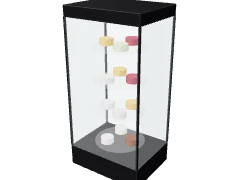
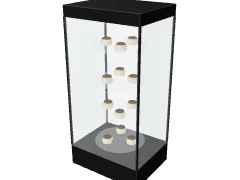
Café 3D: mini Basque cheesecakes in all fridges and display cases (default, switchable)

diff --git a/cafe.html b/cafe.html
@@ -484,7 +484,14 @@ const LIGHT = matC('#fff6dc', .3, 0, {emissive:'#fff0c8', emissiveIntensity:1});
 const BULB = matC('#fff4d6', .3, 0, {emissive:'#ffdca0', emissiveIntensity:2});
 const CAKES = () => ['#6b3b24', '#f2d6dc', '#f4ecd8', '#d8a24a', '#8f2a3a', '#c7d9a3'].map(c => matC(c, .7));
 function lampLight(g, ctx, x, y, z){ if (!ctx?.lights || !ctx.eve || ctx.lights.length >= 8) return; const L = new THREE.PointLight('#ffd49a', 2, 6, 2); L.position.set(x, y, z); L.userData.nopick = true; g.add(L); ctx.lights.push(L); }
+// a small Basque cheesecake: creamy sides, burnt top, crumpled baking paper around
+const BQ = {cream:matC('#e6bf7c', .7), top:matC('#2a160c', .8), edge:matC('#8b4a1f', .65), paper:matC('#e8dcc6', .95, 0, {side:THREE.DoubleSide})};
+function basque(g, x, y, z, r = .05){ const h = r * 1.1;
+  cy(g, BQ.cream, x, y, z, r * .96, r, h, 18); cy(g, BQ.edge, x, y + h, z, r * .86, r * .96, r * .12, 18);
+  const t = mesh(g, new THREE.SphereGeometry(r * .88, 16, 6, 0, Math.PI * 2, 0, Math.PI / 2), BQ.top, x, y + h + r * .1, z); t.scale.y = .32;
+  cy(g, BQ.paper, x, y, z, r * 1.16, r * 1.02, h * .72, 8, true); }
 function goods(g, kind, w, z, y, seed = 1){
+  if (kind === 'basque'){ const n = Math.max(1, Math.floor((w - .06) / .115)); spread(n, w - .13).forEach(x => basque(g, x, y, z)); return; }
   const C = CAKES(), dr = kind === 'drinks', n = Math.max(1, Math.floor((w - .1) / (dr ? .085 : .21)));
   spread(n, w - (dr ? .12 : .26)).forEach((x, i) => { const m = C[(i + seed) % C.length];
     if (dr){ cy(g, m, x, y, z, .03, .03, .19, 12); cy(g, DARK, x, y + .19, z, .014, .014, .03, 8); }
@@ -554,7 +561,7 @@ const DEF = {
       const s = new THREE.Group(); s.position.set(-.04, .2, 0); s.rotation.x = -.35; g.add(s); bx(s, F, 0, -.11, 0, .3, .21, .016, .006);
       const scr = mesh(s, new THREE.PlaneGeometry(.28, .19), matC('#2c5e8c', .3, 0, {emissive:'#1b4166', emissiveIntensity:.8}), 0, 0, .0085); scr.castShadow = false;
       bx(g, F, .13, 0, .05, .075, .03, .15, .01); bx(g, matC('#3a8a5c', .4, 0, {emissive:'#1d5c38'}), .13, .03, .07, .05, .002, .05); }},
-  pastry:{cat:'bar', n:'Витрина для десертов', presets:PW([.9, 1.2, 1.5]), w:1.2, d:.7, h:1.35, rs:'w', fins:BODY, fin:'white', tops:TOPS, top:'marble', snap:true,
+  pastry:{cat:'bar', n:'Витрина для десертов', goods:'basque', presets:PW([.9, 1.2, 1.5]), w:1.2, d:.7, h:1.35, rs:'w', fins:BODY, fin:'white', tops:TOPS, top:'marble', snap:true,
     build(g, o){ const {w, d, h} = o, F = finMat(o.fin), T = finMat(o.top), gh = h - .91;
       bx(g, DARK, 0, 0, 0, w - .04, .08, d - .06); bx(g, F, 0, .08, 0, w, .8, d); bx(g, T, 0, .88, 0, w, .03, d);
       bx(g, GLASS, 0, .91, 0, w - .02, gh, d - .04);
@@ -562,8 +569,7 @@ const DEF = {
       bx(g, STEEL, 0, h - .02, 0, w, .02, d - .02); bx(g, GLASS, 0, .91 + gh / 2, -.02, w - .06, .01, d - .14);
       bx(g, matC('#fff6dc', .3, 0, {emissive:'#fff0c8', emissiveIntensity:1}), 0, h - .03, 0, w - .1, .008, .04);
       const cakes = ['#6b3b24', '#f2d6dc', '#f4ecd8', '#d8a24a', '#8f2a3a'].map(c => matC(c, .7));
-      [.91, .91 + gh / 2 + .01].forEach((y, l) => spread(Math.max(1, Math.floor((w - .1) / .22)), w - .3).forEach((x, i) => {
-        cy(g, cakes[(i + l * 2) % cakes.length], x, y, .02, .085, .085, .075, 24); cy(g, matC('#ffffff', .4), x, y + .075, .02, .085, .085, .01, 24); })); }},
+      [.91, .91 + gh / 2 + .01].forEach((y, l) => goods(g, o.goods || 'basque', w - .04, .02, y, l * 2)); }},
   espresso:{cat:'coffee', n:'Эспрессо-машина', w:.72, d:.58, h:.5, place:'on', fins:MACH, fin:'steel', groups:2,
     size: o => ({w:[.5, .72, .95][(o.groups || 2) - 1]}),
     build(g, o){ const {w, d} = o, F = finMat(o.fin), n = o.groups || 2, K = DARK;
@@ -646,21 +652,22 @@ const DEF = {
     build(g, o){ const F = finMat(o.fin); bx(g, F, 0, 0, 0, .18, .13, .2, .02); cy(g, GLASS, 0, .13, 0, .08, .06, .27); cy(g, DARK, 0, .4, 0, .082, .082, .03); }},
   milk:{cat:'coffee', n:'Холодильник для молока', w:.3, d:.48, h:.45, place:'on', fins:['steel', 'black', 'white'], fin:'steel',
     build(g, o){ bx(g, finMat(o.fin), 0, 0, 0, .3, .45, .48, .01); bx(g, GLASS_T, 0, .05, .241, .24, .34, .005); }},
-  fridge:{cat:'cold', n:'Холодильный шкаф со стеклом', presets:PW([.6, .7]), w:.6, d:.62, h:2.0, rs:'wh', fins:['white', 'black', 'steel'], fin:'black', snap:true,
+  fridge:{cat:'cold', n:'Холодильный шкаф со стеклом', goods:'basque', presets:PW([.6, .7]), w:.6, d:.62, h:2.0, rs:'wh', fins:['white', 'black', 'steel'], fin:'black', snap:true,
     build(g, o){ const {w, d, h} = o, F = finMat(o.fin), t = .04, nd = w > .9 ? 2 : 1;
       bx(g, F, -w / 2 + t / 2, 0, 0, t, h, d); bx(g, F, w / 2 - t / 2, 0, 0, t, h, d); bx(g, F, 0, h - .16, 0, w, .16, d); bx(g, DARK, 0, 0, 0, w, .1, d); bx(g, F, 0, 0, -d / 2 + t / 2, w, h, t);
       bx(g, matC('#f3f3f1', .6), 0, .1, -d / 2 + t + .006, w - 2 * t, h - .26, .01);
       bx(g, matC('#ffffff', .4, 0, {emissive:'#ffffff', emissiveIntensity:.7}), 0, h - .13, d / 2 + .002, w - .08, .09, .004);
       const bottles = ['#f4f1ea', '#e9c46a', '#e76f51', '#2a9d8f', '#ffffff'].map(c => matC(c, .35));
       for (let i = 0; i < 4; i++){ const y = .14 + i * (h - .36) / 4; bx(g, matC('#e2e8ea', .2, .1), 0, y, 0, w - 2 * t - .01, .01, d - 2 * t - .02);
-        spread(Math.max(1, Math.floor((w - 2 * t) / .085)), w - 2 * t - .1).forEach((x, j) => { cy(g, bottles[(i + j) % bottles.length], x, y + .01, d * .12, .032, .032, .2, 12); cy(g, DARK, x, y + .21, d * .12, .015, .015, .03, 8); }); }
+        if ((o.goods || 'basque') === 'drinks') spread(Math.max(1, Math.floor((w - 2 * t) / .085)), w - 2 * t - .1).forEach((x, j) => { cy(g, bottles[(i + j) % bottles.length], x, y + .01, d * .12, .032, .032, .2, 12); cy(g, DARK, x, y + .21, d * .12, .015, .015, .03, 8); });
+        else for (const zz of [d * .14, -d * .06]) goods(g, o.goods || 'basque', w - 2 * t - .01, zz, y + .01, i); }
       const dw = w / nd;
       for (let k = 0; k < nd; k++){ const x = -w / 2 + dw * (k + .5), z = d / 2 + .02;
         bx(g, F, x, .1, z, dw - .006, .05, .03); bx(g, F, x, h - .21, z, dw - .006, .05, .03);
         bx(g, F, x - dw / 2 + .025, .1, z, .05, h - .26, .03); bx(g, F, x + dw / 2 - .025, .1, z, .05, h - .26, .03);
         bx(g, GLASS, x, .15, z, dw - .1, h - .36, .008);
         const hx = nd === 2 ? x + (k ? -1 : 1) * (dw / 2 - .07) : x + dw / 2 - .07; bx(g, STEEL, hx, h * .35, z + .03, .02, h * .3, .02, .008); } }},
-  fridge2:{cat:'cold', n:'Холодильный шкаф, 2 двери', w:1.2, d:.7, h:2.0, rs:'wh', fins:['white', 'black', 'steel'], fin:'steel', snap:true, build:(g, o) => DEF.fridge.build(g, o)},
+  fridge2:{cat:'cold', n:'Холодильный шкаф, 2 двери', goods:'basque', w:1.2, d:.7, h:2.0, rs:'wh', fins:['white', 'black', 'steel'], fin:'steel', snap:true, build:(g, o) => DEF.fridge.build(g, o)},
   under:{cat:'cold', n:'Холодильный стол', presets:PW([.9, 1.35, 1.8]), w:1.35, d:.7, h:.85, rs:'wd', fins:['steel', 'black', 'white'], fin:'steel', sup:true, snap:true,
     build(g, o){ const {w, d, h} = o, F = finMat(o.fin), n = Math.max(1, Math.round(w / .6)), dw = w / n;
       for (const sx of [-1, 1]) for (const sz of [-1, 1]) cy(g, STEEL, sx * (w / 2 - .06), 0, sz * (d / 2 - .06), .02, .02, .12, 10);
@@ -766,33 +773,33 @@ const DEF = {
       for (let i = 0; i < 5; i++){ const y = .08 + i * (h - .12) / 4; bx(g, S, 0, y, 0, w, .025, d);
         if (i && i < 4) spread(Math.max(1, Math.floor((w - .1) / .13)), w - .16).forEach((x, j) => { if ((i + j) % 4 === 3) cy(g, GLASS, x, y + .025, 0, .05, .05, .16); else { bx(g, kraft, x, y + .025, 0, .1, .17, .06, .006); bx(g, lab[(i + j) % 4], x, y + .08, .031, .07, .05, .002); } }); } }},
   // ---- cold: showcases and fridges ----
-  showSq:{cat:'cold', n:'Витрина холодильная, прямое стекло', w:1.2, d:.8, h:1.3, rs:'w', fins:BODY, fin:'white', tops:TOPS, top:'marble', goods:'cakes', snap:true, presets:PW([.9, 1.2, 1.5, 1.8, 2.4]),
+  showSq:{cat:'cold', n:'Витрина холодильная, прямое стекло', w:1.2, d:.8, h:1.3, rs:'w', fins:BODY, fin:'white', tops:TOPS, top:'marble', goods:'basque', snap:true, presets:PW([.9, 1.2, 1.5, 1.8, 2.4]),
     build(g, o){ const {w, d, h} = o, gh = h - .9; showBase(g, o); glassCase(g, w, d, .9, gh, STEEL);
       bx(g, GLASS, 0, .9 + gh * .5, -.03, w - .06, .01, d - .16); goods(g, o.goods, w, .08, .9, 1); goods(g, o.goods, w, -.04, .9 + gh * .5 + .01, 3); bx(g, LIGHT, 0, h - .03, 0, w - .1, .008, .04); }},
-  showCurve:{cat:'cold', n:'Витрина холодильная, гнутое стекло', w:1.5, d:.9, h:1.3, rs:'w', fins:BODY, fin:'black', tops:TOPS, top:'steel', goods:'cakes', snap:true, presets:PW([.9, 1.2, 1.5, 1.8, 2.4]),
+  showCurve:{cat:'cold', n:'Витрина холодильная, гнутое стекло', w:1.5, d:.9, h:1.3, rs:'w', fins:BODY, fin:'black', tops:TOPS, top:'steel', goods:'basque', snap:true, presets:PW([.9, 1.2, 1.5, 1.8, 2.4]),
     build(g, o){ const {w, d, h} = o, r = Math.min(h - .9, d * .55); showBase(g, o); curveGlass(g, w, d, .9, r); goods(g, o.goods, w, .02, .9, 2); bx(g, GLASS, 0, .9 + r * .5, -.1, w - .06, .01, d * .45); goods(g, o.goods, w, -.12, .9 + r * .5 + .01, 4); }},
-  showVert:{cat:'cold', n:'Витрина кондитерская вертикальная', w:.9, d:.7, h:1.85, rs:'w', fins:['black', 'white', 'steel', 'oak'], fin:'black', snap:true, presets:PW([.7, .9]),
+  showVert:{cat:'cold', n:'Витрина кондитерская вертикальная', goods:'basque', w:.9, d:.7, h:1.85, rs:'w', fins:['black', 'white', 'steel', 'oak'], fin:'black', snap:true, presets:PW([.7, .9]),
     build(g, o){ const {w, d, h} = o, F = finMat(o.fin), gh = h - .37; bx(g, F, 0, 0, 0, w, .25, d, .01); bx(g, F, 0, h - .12, 0, w, .12, d, .01); bx(g, LIGHT, 0, h - .126, 0, w - .1, .006, d - .1);
       glassCase(g, w, d, .25, gh, F); const C = CAKES();
       for (let i = 0; i < 4; i++){ const y = .3 + i * gh / 4, r = Math.min(w, d) / 2 - .06; cy(g, GLASS, 0, y, 0, r, r, .01, 32);
-        for (let k = 0; k < 3; k++){ const a = k * 2.1 + i; cy(g, C[(i + k) % C.length], Math.cos(a) * r * .55, y + .01, Math.sin(a) * r * .55, .075, .075, .07, 20); } } }},
-  showTop:{cat:'cold', n:'Витрина настольная', w:.9, d:.5, h:.45, rs:'w', place:'on', fins:['black', 'white', 'steel'], fin:'black', goods:'cakes', presets:PW([.6, .9, 1.2]),
+        for (let k = 0; k < 3; k++){ const a = k * 2.1 + i, px = Math.cos(a) * r * .55, pz = Math.sin(a) * r * .55; if ((o.goods || 'basque') === 'basque') basque(g, px, y + .01, pz, .055); else cy(g, C[(i + k) % C.length], px, y + .01, pz, .075, .075, .07, 20); } } }},
+  showTop:{cat:'cold', n:'Витрина настольная', w:.9, d:.5, h:.45, rs:'w', place:'on', fins:['black', 'white', 'steel'], fin:'black', goods:'basque', presets:PW([.6, .9, 1.2]),
     build(g, o){ const {w, d, h} = o, F = finMat(o.fin); bx(g, F, 0, 0, 0, w, .07, d, .01); glassCase(g, w, d, .07, h - .07, F); bx(g, GLASS, 0, .07 + (h - .07) / 2, 0, w - .05, .008, d - .05);
       goods(g, o.goods, w, 0, .07, 5); goods(g, o.goods, w, 0, .07 + (h - .07) / 2 + .008, 6); }},
-  multideck:{cat:'cold', n:'Горка холодильная открытая', w:1.2, d:.7, h:2.0, rs:'w', fins:['black', 'white', 'steel', 'oak'], fin:'black', snap:true, presets:PW([.9, 1.2, 1.5, 1.8]),
+  multideck:{cat:'cold', n:'Горка холодильная открытая', goods:'basque', w:1.2, d:.7, h:2.0, rs:'w', fins:['black', 'white', 'steel', 'oak'], fin:'black', snap:true, presets:PW([.9, 1.2, 1.5, 1.8]),
     build(g, o){ const {w, d, h} = o, F = finMat(o.fin), tag = matC('#efe9de', .6);
       for (const sx of [-1, 1]) bx(g, F, sx * (w / 2 - .025), 0, 0, .05, h, d); bx(g, F, 0, 0, -d / 2 + .03, w, h, .06); bx(g, F, 0, h - .2, 0, w, .2, d); bx(g, LIGHT, 0, h - .21, d / 2 - .1, w - .12, .008, .05);
       bx(g, F, 0, 0, 0, w, .4, d); goods(g, 'drinks', w - .1, .1, .4, 2);
       for (let i = 0; i < 4; i++){ const y = .62 + i * (h - .9) / 4, sd = d * .62 - i * .06, z = -d / 2 + .06 + sd / 2; bx(g, STEEL, 0, y, z, w - .1, .015, sd); bx(g, tag, 0, y - .03, z + sd / 2, w - .1, .03, .006);
-        goods(g, i % 2 ? 'sandwich' : 'drinks', w - .1, z + .04, y + .015, i + 3); } }},
+        goods(g, o.goods || 'basque', w - .1, z + .04, y + .015, i + 3); } }},
   gelato:{cat:'cold', n:'Витрина для мороженого', w:1.2, d:1.0, h:1.3, rs:'w', fins:BODY, fin:'white', tops:TOPS, top:'steel', snap:true, presets:PW([1.0, 1.2, 1.5, 1.8]),
     build(g, o){ const {w, d, h} = o; showBase(g, o); curveGlass(g, w, d, .9, Math.min(h - .9, .42)); const R = rnd(5), cols = ['#f7d6e0', '#a8d5ba', '#6b3b24', '#fff3c4', '#f4a259', '#c9b1ff', '#ffffff'];
       const n = Math.max(1, Math.floor((w - .12) / .17)); for (const z of [-.12, .14]) spread(n, w - .25).forEach((x, i) => { bx(g, STEEL, x, .83, z, .16, .07, .24); bx(g, matC(cols[(i + (z > 0 ? 3 : 0)) % cols.length], .8), x, .9, z, .15, .025, .23);
         mesh(g, new THREE.SphereGeometry(.05, 10, 8), matC(cols[(i + (z > 0 ? 3 : 0)) % cols.length], .8), x + (R() - .5) * .05, .925, z + (R() - .5) * .08).scale.y = .6; }); }},
-  barFridge:{cat:'cold', n:'Барный холодильник со стеклом (под стойку)', w:.9, d:.55, h:.86, rs:'w', fins:['black', 'steel', 'white'], fin:'black', sup:true, snap:true, presets:[['1 дверь · 60', {w:.6}], ['2 двери · 90', {w:.9}], ['3 двери · 135', {w:1.35}]],
+  barFridge:{cat:'cold', n:'Барный холодильник со стеклом (под стойку)', goods:'basque', w:.9, d:.55, h:.86, rs:'w', fins:['black', 'steel', 'white'], fin:'black', sup:true, snap:true, presets:[['1 дверь · 60', {w:.6}], ['2 двери · 90', {w:.9}], ['3 двери · 135', {w:1.35}]],
     build(g, o){ const {w, d, h} = o, F = finMat(o.fin), n = Math.max(1, Math.round(w / .45)), dw = w / n;
       bx(g, F, 0, 0, 0, w, h, d - .02, .004); bx(g, matC('#f3f3f1', .6), 0, .08, .0, w - .06, h - .16, d - .1); bx(g, LIGHT, 0, h - .09, 0, w - .1, .006, d - .12);
-      for (const y of [.1, .1 + (h - .2) / 2]){ bx(g, matC('#e2e8ea', .2, .1), 0, y, 0, w - .08, .008, d - .14); goods(g, 'drinks', w - .06, .02, y + .008, Math.round(y * 10)); }
+      for (const y of [.1, .1 + (h - .2) / 2]){ bx(g, matC('#e2e8ea', .2, .1), 0, y, 0, w - .08, .008, d - .14); goods(g, o.goods || 'basque', w - .06, .02, y + .008, Math.round(y * 10)); }
       for (let i = 0; i < n; i++){ const x = -w / 2 + dw * (i + .5); for (const [y0, hh] of [[.04, .04], [h - .06, .04]]) bx(g, F, x, y0, d / 2, dw - .008, hh, .03);
         for (const sx of [-1, 1]) bx(g, F, x + sx * (dw / 2 - .02), .04, d / 2, .04, h - .08, .03); bx(g, GLASS, x, .08, d / 2, dw - .08, h - .14, .006); bx(g, STEEL, x, h - .1, d / 2 + .03, dw * .5, .014, .014); } }},
   builtFridge:{cat:'cold', n:'Холодильник встраиваемый под столешницу', w:.6, d:.6, h:.86, rs:'w', fins:BODY, fin:'white', tops:TOPS, top:'oak', sup:true, snap:true, presets:PW([.6, .9, 1.2]),
@@ -1404,7 +1411,7 @@ $('q').addEventListener('input', renderLib);
 $('libBody').addEventListener('pointerdown', e => { const b = e.target.closest('[data-k]'); if (!b || e.button !== 0) return; e.preventDefault(); startPlace(b.dataset.k, true); placing && (placing.moved = false); });
 
 /* catalogue pictures, rendered once from the same 3D models */
-const TV = 1, THUMBS = new Map(); let thumbR = null, thumbScene = null, thumbQ = [], thumbBusy = false;
+const TV = 2, THUMBS = new Map(); let thumbR = null, thumbScene = null, thumbQ = [], thumbBusy = false;
 function queueThumbs(){ document.querySelectorAll('img[data-th]').forEach(img => { const k = img.dataset.th; if (!THUMBS.has(k) && !thumbQ.includes(k)) thumbQ.push(k); }); if (!thumbBusy) thumbStep(); }
 function thumbStep(){ if (!thumbQ.length){ thumbBusy = false; return; } thumbBusy = true;
   const k = thumbQ.shift(); try { THUMBS.set(k, makeThumb(k)); document.querySelectorAll(`img[data-th="${k}"]`).forEach(i => i.src = THUMBS.get(k)); } catch (e){ console.warn('thumb', k, e); }
@@ -1442,7 +1449,7 @@ function renderInsp(){
         <p class="note">${(d.w * d.d).toFixed(1).replace('.', ',')} м². Нужна для вместимости и экспликации в «Документах». Видна на «Плане», двигается за край.</p></div>` : ''}
       ${techInsp(d)}
       ${D.presets ? `<div class="grp"><h3>Готовые размеры</h3><div class="chips">${D.presets.map(([n, v], i) => `<button type="button" class="chip" data-preset="${i}" aria-pressed="${Object.entries(v).every(([k, x]) => Math.abs(d[k] - x) < .001)}">${n}</button>`).join('')}</div></div>` : ''}
-      ${D.goods ? `<div class="grp"><h3>Что внутри</h3><div class="seg" style="width:max-content">${[['cakes', 'Десерты'], ['sandwich', 'Сэндвичи'], ['drinks', 'Напитки']].map(([k, n]) => `<button class="tab" type="button" data-goods="${k}" aria-selected="${d.goods === k}">${n}</button>`).join('')}</div></div>` : ''}
+      ${D.goods ? `<div class="grp"><h3>Что внутри</h3><div class="chips">${[['basque', 'Баскские чизкейки'], ['cakes', 'Торты'], ['sandwich', 'Сэндвичи'], ['drinks', 'Напитки']].map(([k, n]) => `<button class="chip" type="button" data-goods="${k}" aria-pressed="${(d.goods || 'basque') === k}">${n}</button>`).join('')}</div></div>` : ''}
       ${D.groups ? `<div class="grp"><h3>Группы</h3><div class="seg" style="width:max-content">${[1, 2, 3].map(n => `<button class="tab" type="button" data-groups="${n}" aria-selected="${d.groups === n}">${n} ${n === 1 ? 'группа' : 'группы'}</button>`).join('')}</div></div>` : ''}
       ${D.text !== undefined ? `<div class="grp"><h3>${d.kind === 'zone' ? 'Своё название (необязательно)' : 'Надпись'}</h3><input type="text" data-f="text" value="${esc(d.text)}" maxlength="24"></div>` : ''}
       ${D.neon ? `<div class="grp"><h3>Цвет неона</h3><div class="sw">${Object.entries(NEON).map(([k, c]) => `<button type="button" data-neon="${k}" aria-pressed="${d.neon === k}" style="background:${c}"></button>`).join('')}</div></div>` : ''}
@@ -2060,6 +2067,7 @@ async function enterEditor(){
   $('home').hidden = true; $('app').hidden = false; document.title = (P.name || 'Кофейня') + ' — Кофейня 3D';
   P.H ??= 3; P.ops ??= []; P.items ??= []; P.walls ??= []; P.fade ??= true;
   for (const it of P.items){ const D = DEF[it.kind]; if (D?.size) Object.assign(it, D.size(it)); }
+  if (!P.bq){ for (const it of P.items) if (DEF[it.kind]?.goods) it.goods = 'basque'; P.bq = 1; }
   P.items = P.items.filter(i => DEF[i.kind]); P.ops = P.ops.filter(o => OPS[o.kind]);
   $('pname').value = P.name || ''; sel = null;
   await new Promise(r => requestAnimationFrame(r));
